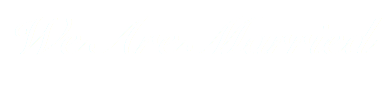
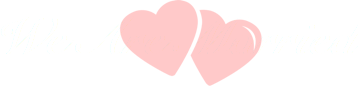
update

Changed region(s): [[0.338, 0.0, 0.7374, 1.0]]

diff --git a/marry/index.js b/marry/index.js
@@ -10,7 +10,7 @@ $(function() {
      n = new Date(),
         d = n.getTime(),
         N = function () {
-            var e = ["imgs/img1.jpg","imgs/img2.jpg","imgs/wedding.png","imgs/married.png","imgs/lefticon.png"],
+            var e = ["imgs/img1.jpg","imgs/img2.jpg","imgs/wedding.png","imgs/married.png?v=1","imgs/lefticon.png"],
                 t = e.length,
                 n = 0,
                 r = function (e) {
@@ -23,10 +23,6 @@ $(function() {
                         console.log(parseInt(n / t * 100) + "%");
                         if(parseInt(n / t * 100) == 100 || D-d > 10000){
                             console.log("加载完毕");
-
-
-                            //var heart = document.querySelector(".heart");
-                           // var loading = document.querySelector(".loading");
                             var lo=$(".loading");
                                 lo.addClass("loadinghide");
                             $(".heart").addClass('happy');
